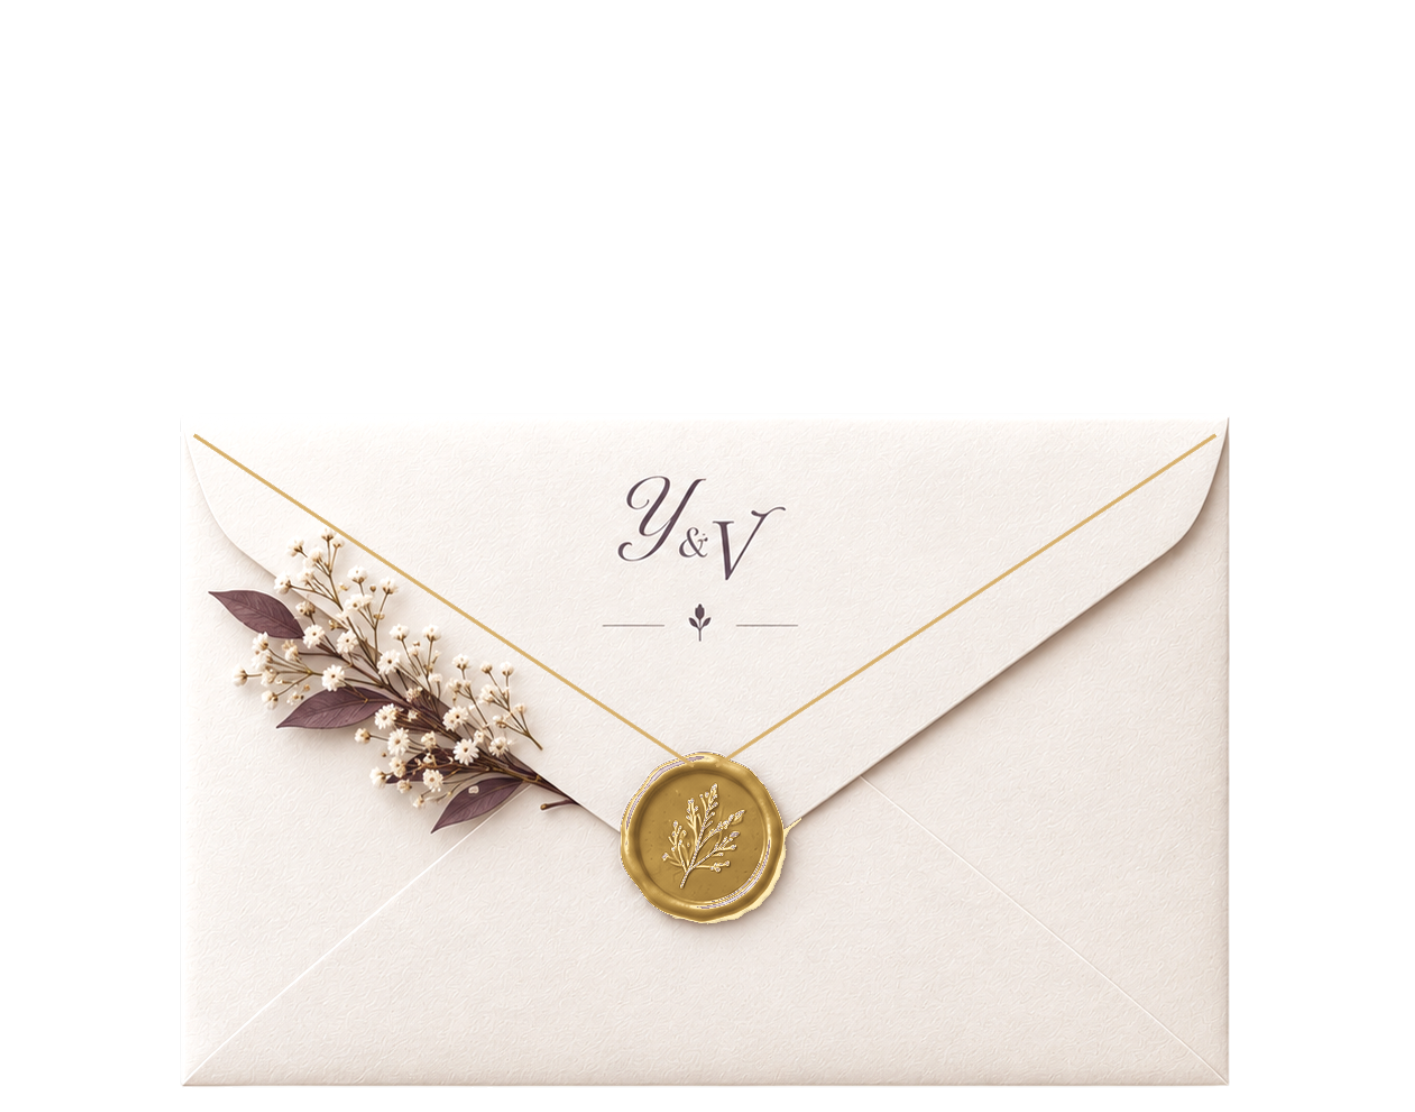
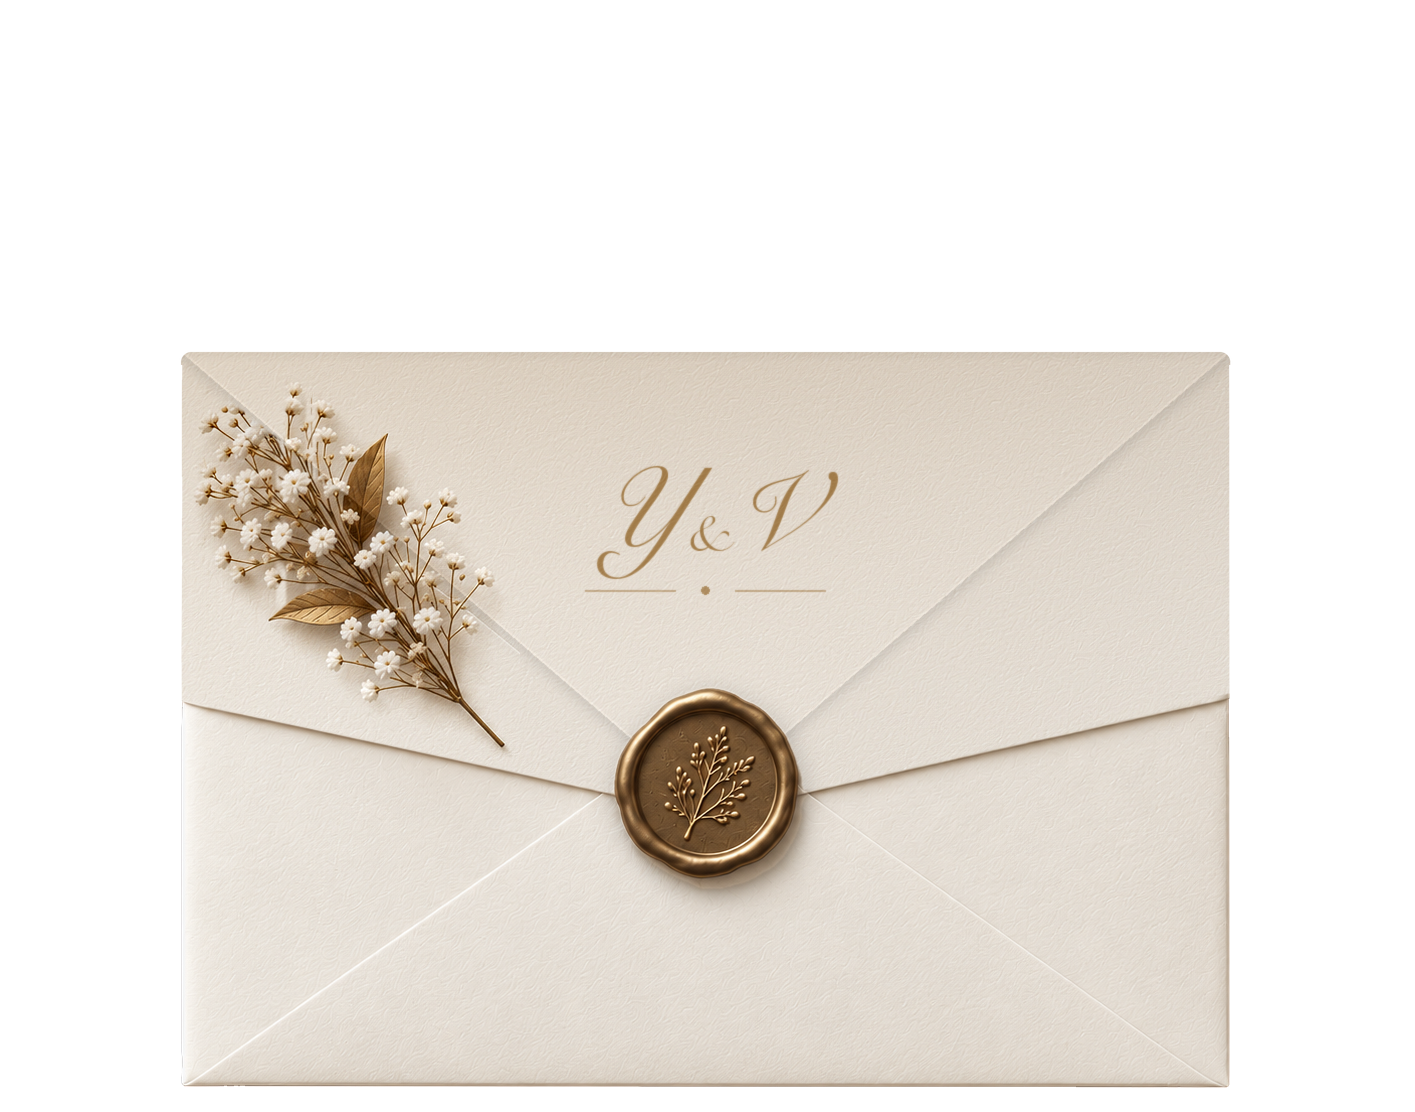
v22

diff --git a/index.html b/index.html
@@ -19,7 +19,7 @@
     content="https://images.unsplash.com/photo-1519741497674-611481863552?auto=format&fit=crop&w=1200&q=80" />
 
   <!-- Preload Envelope Assets for Instant Interaction -->
-  <link rel="preload" as="image" href="assets/images/envelope/envelope%20closed.png" />
+  <link rel="preload" as="image" href="assets/images/envelope/envelope%20closed.png?v=2" />
   <link rel="preload" as="image" href="assets/images/envelope/envelope%20open.png" />
 
   <!-- Google Fonts: Marcellus + EB Garamond + Jost -->
@@ -51,7 +51,7 @@
       <p class="intro-pretitle">You Are Cordially Invited</p>
 
       <div class="envelope-container" id="envelopeContainer">
-        <img src="assets/images/envelope/envelope%20closed.png" alt="Sealed wedding invitation envelope"
+        <img src="assets/images/envelope/envelope%20closed.png?v=2" alt="Sealed wedding invitation envelope"
           class="envelope-img envelope-closed" id="envelopeClosed" />
         <img src="assets/images/envelope/envelope%20open.png" alt="Opened wedding invitation"
           class="envelope-img envelope-open" id="envelopeOpen" />

diff --git a/scratch/make_closed_envelope.py b/scratch/make_closed_envelope.py
@@ -1,0 +1,237 @@
+"""Build a closed envelope from the open envelope photo so both match.
+
+Keeps the open image's bottom pocket, wax seal and sprig at identical pixel
+positions; rebuilds the side panels and a closed top flap from the same paper.
+usage: python3 make_closed.py <open.png> <out.png> [preview.jpg]
+"""
+import sys
+import numpy as np
+from PIL import Image, ImageDraw, ImageFilter, ImageFont
+
+SRC, OUT = sys.argv[1], sys.argv[2]
+PREVIEW = sys.argv[3] if len(sys.argv) > 3 else None
+rng = np.random.default_rng(7)
+
+im = Image.open(SRC).convert("RGBA")
+W, H = im.size
+A = np.asarray(im).astype(np.float32)
+RGB, ALPHA = A[:, :, :3], A[:, :, 3]
+LUM = RGB.mean(2)
+yy, xx = np.mgrid[0:H, 0:W].astype(np.float32)
+
+# ── geometry (measured on the open image) ──────────────────────────────
+X0, X1, TOP, BOT = 181, 1230, 352, 1087
+POCKET = [(181, 703), (705, 815), (1229, 696)]       # bottom flap V edge
+APEX = (705, 802)                                     # top flap tip, under seal
+
+
+def vline(pts):
+    (ax, ay), (bx, by), (cx, cy) = pts
+    return np.where(xx <= bx, ay + (by - ay) * (xx - ax) / (bx - ax),
+                    by + (cy - by) * (xx - bx) / (cx - bx))
+
+
+pocket_y = vline(POCKET)
+flap_y = vline([(X0, TOP), APEX, (X1 - 1, TOP)])
+
+# ── seal mask (bronze wax: saturated or dark) ─────────────────────────
+mx, mn = RGB.max(2), RGB.min(2)
+sat = (mx - mn) / np.maximum(mx, 1)
+near = (xx - 705) ** 2 + (yy - 785) ** 2 < 112 ** 2
+seal = near & ((sat > 0.24) | (LUM < 150))
+sm = Image.fromarray((seal * 255).astype(np.uint8))
+sm = sm.filter(ImageFilter.MaxFilter(7)).filter(ImageFilter.MinFilter(7))   # close
+sm = sm.filter(ImageFilter.MinFilter(3)).filter(ImageFilter.MaxFilter(3))   # drop specks
+sm = sm.filter(ImageFilter.GaussianBlur(3)).point(lambda v: 255 if v > 128 else 0)
+# fill holes: flood from outside
+filled = sm.copy()
+ImageDraw.floodfill(filled, (0, 0), 128)
+sm = Image.fromarray(np.where(np.asarray(filled) == 128, 0, 255).astype(np.uint8))
+seal_a = np.asarray(sm.filter(ImageFilter.GaussianBlur(1.0))).astype(np.float32) / 255
+ys, xs = np.nonzero(seal_a > 0.5)
+SEAL_C = (xs.mean(), ys.mean())
+print("seal centre", [round(v) for v in SEAL_C], "bbox", xs.min(), xs.max(), ys.min(), ys.max())
+
+# ── clean paper sample mask (for lighting fit) ─────────────────────────
+body = (xx > X0 + 6) & (xx < X1 - 7) & (yy < BOT - 6)
+clean = body & (yy > pocket_y + 6) & ~((xx - 705) ** 2 + (yy - 785) ** 2 < 150 ** 2)
+clean |= (xx > 186) & (xx < 268) & (yy > 368) & (yy < 690)            # left side panel
+clean |= (xx > 1150) & (xx < 1222) & (yy > 450) & (yy < 680)          # right side panel
+clean &= LUM > 185
+
+# lighting: quadratic surface per channel
+def basis(x, y):
+    x = (x - W / 2) / W
+    y = (y - H / 2) / H
+    return np.stack([np.ones_like(x), x, y, x * x, x * y, y * y], -1)
+
+blur = np.asarray(im.convert("RGB").filter(ImageFilter.GaussianBlur(5))).astype(np.float32)
+sel = clean[::3, ::3]
+Bm = basis(xx[::3, ::3][sel], yy[::3, ::3][sel])
+light = np.zeros_like(RGB)
+Bfull = basis(xx, yy)
+for c in range(3):
+    coef, *_ = np.linalg.lstsq(Bm, blur[::3, ::3, c][sel], rcond=None)
+    light[:, :, c] = Bfull @ coef
+
+# ── paper texture: quilt residual blocks from clean regions ────────────
+resid = RGB - np.asarray(im.convert("RGB").filter(ImageFilter.GaussianBlur(4))).astype(np.float32)
+resid = np.clip(resid, -14, 14)
+sources = [(480, 965, 940, 1075), (205, 775, 420, 870), (990, 775, 1200, 860)]
+B, STEP = 48, 32
+win1 = np.sin(np.linspace(0, np.pi, B)) ** 2
+win = np.outer(win1, win1)[:, :, None]
+tex = np.zeros_like(RGB)
+wsum = np.zeros((H, W, 1), np.float32)
+for by in range(TOP - B, BOT + B, STEP):
+    for bx in range(X0 - B, X1 + B, STEP):
+        sx0, sy0, sx1, sy1 = sources[rng.integers(len(sources))]
+        px = rng.integers(sx0, sx1 - B)
+        py = rng.integers(sy0, sy1 - B)
+        patch = resid[py:py + B, px:px + B]
+        ty0, tx0 = max(by, 0), max(bx, 0)
+        ty1, tx1 = min(by + B, H), min(bx + B, W)
+        if ty1 <= ty0 or tx1 <= tx0:
+            continue
+        p = patch[ty0 - by:ty1 - by, tx0 - bx:tx1 - bx]
+        w = win[ty0 - by:ty1 - by, tx0 - bx:tx1 - bx]
+        tex[ty0:ty1, tx0:tx1] += p * w
+        wsum[ty0:ty1, tx0:tx1] += w * w
+tex /= np.sqrt(np.maximum(wsum, 1e-4))
+
+paper = light + tex
+
+# ── composite ──────────────────────────────────────────────────────────
+out = paper.copy()
+
+# 1. bottom pocket straight from the photo (soft 2px seam)
+keep = np.clip((yy - (pocket_y - 4)) / 2.0, 0, 1)[:, :, None]
+out = out * (1 - keep) + RGB * keep
+
+# 2. top flap: soft shadow onto what's below, then the flap itself
+flap = (yy < flap_y).astype(np.float32)
+fm = Image.fromarray((flap * 255).astype(np.uint8))
+shadow = np.asarray(fm.transform(fm.size, Image.AFFINE, (1, 0, 0, 0, 1, -5))
+                    .filter(ImageFilter.GaussianBlur(7))).astype(np.float32) / 255
+shadow = np.clip(shadow - flap, 0, 1)
+out *= (1 - 0.13 * shadow)[:, :, None]
+
+flap_aa = np.asarray(fm.filter(ImageFilter.GaussianBlur(0.7))).astype(np.float32)[:, :, None] / 255
+# flap paper: same sheet, a touch brighter (faces the light), with a fine
+# highlight along the folded edge like the pocket edges in the photo
+d_edge = flap_y - yy                                   # px above the edge (vertical)
+edge_hi = np.exp(-((d_edge - 1.5) ** 2) / 1.5)[:, :, None] * 10
+top_fold = np.clip(1 - (yy - TOP) / 10, 0, 1)[:, :, None] * -8   # crease shading at the top fold
+flap_px = paper + 3 + edge_hi + top_fold
+out = out * (1 - flap_aa) + flap_px * flap_aa
+
+# 3. monogram on the flap, in the card's gold
+GOLD = np.array([146, 112, 66], np.float32)
+font = ImageFont.truetype("/System/Library/Fonts/Supplemental/SnellRoundhand.ttc", 112, index=0)
+amp = ImageFont.truetype("/System/Library/Fonts/Supplemental/SnellRoundhand.ttc", 64, index=0)
+tm = Image.new("L", (W, H), 0)
+td = ImageDraw.Draw(tm)
+cx, cy = 705, 512
+td.text((cx - 62, cy), "Y", font=font, fill=255, anchor="mm")
+td.text((cx + 2, cy + 18), "&", font=amp, fill=255, anchor="mm")
+td.text((cx + 66, cy + 4), "V", font=font, fill=255, anchor="mm")
+for sx0, sx1 in ((cx - 120, cx - 30), (cx + 30, cx + 120)):
+    td.line([(sx0, cy + 78), (sx1, cy + 78)], fill=150, width=2)
+td.ellipse([cx - 4, cy + 74, cx + 4, cy + 82], fill=220)
+t = np.asarray(tm.filter(ImageFilter.GaussianBlur(0.6))).astype(np.float32)[:, :, None] / 255
+t *= flap_aa
+deboss = np.asarray(tm.transform(tm.size, Image.AFFINE, (1, 0, -1, 0, 1, -1))
+                    .filter(ImageFilter.GaussianBlur(1))).astype(np.float32)[:, :, None] / 255
+out = out + deboss * flap_aa * 6                       # faint pressed highlight
+foil = GOLD + (light - light.mean()) * 0.6 + tex * 0.5
+out = out * (1 - t * 0.92) + foil * (t * 0.92)
+
+# 4. sprig: transfer its difference from the local background
+SX0, SY0, SX1, SY1 = 190, 362, 520, 760
+src = RGB[SY0:SY1, SX0:SX1]
+sub_sat = sat[SY0:SY1, SX0:SX1]
+sub_l = LUM[SY0:SY1, SX0:SX1]
+
+
+def gblur(a, sigma):
+    r = int(3 * sigma)
+    k = np.exp(-np.arange(-r, r + 1) ** 2 / (2 * sigma ** 2))
+    k /= k.sum()
+    a = np.pad(a, r, mode="edge")
+    a = np.apply_along_axis(lambda v: np.convolve(v, k, "valid"), 0, a)
+    return np.apply_along_axis(lambda v: np.convolve(v, k, "valid"), 1, a)
+
+
+def masked_blur(img, m, sigma, fallback):
+    """Blur only the pixels where m is set (normalised convolution);
+    where too little of the neighbourhood is set, use the fallback."""
+    den = gblur(m, sigma)
+    num = np.dstack([gblur(img[:, :, c] * m, sigma) for c in range(3)])
+    est = num / np.maximum(den, 1e-3)[:, :, None]
+    trust = np.clip((den - 0.03) / 0.07, 0, 1)[:, :, None]
+    return est * trust + fallback * (1 - trust)
+
+
+# background behind the sprig: paper/card only, found iteratively
+light_sub = light[SY0:SY1, SX0:SX1]
+bgm = ((sub_sat < 0.12) & (sub_l > 200)).astype(np.float32)
+for _ in range(3):
+    bg = masked_blur(src, bgm, 14, light_sub)
+    d = np.abs(src - bg).max(2)
+    bgm = (d < 9).astype(np.float32)
+diff = src - bg
+mag = np.abs(diff).max(2)
+sx, sy = xx[SY0:SY1, SX0:SX1], yy[SY0:SY1, SX0:SX1]
+dl = diff.mean(2)
+
+w_norm = np.clip((mag - 4) / 8, 0, 1)
+w_norm = np.asarray(Image.fromarray((w_norm * 255).astype(np.uint8)).filter(ImageFilter.MaxFilter(3))).astype(np.float32) / 255
+# on the card's edge (x≈280) and gold frame line (x≈310) keep only petals,
+# stems and leaves, so the lines themselves don't come along
+flower_w = np.clip((dl - 6) / 8, 0, 1)
+stem_w = np.clip((sub_sat - 0.25) / 0.1, 0, 1) * np.clip((-dl - 12) / 10, 0, 1)
+stem_w[sy < 398] = 0                       # bare frame line above the top blossoms
+w_strict = np.maximum(flower_w, stem_w)
+
+
+def ramp(x, a, b, r=3.0):
+    return np.clip(np.minimum(x - (a - r), (b + r) - x) / r, 0, 1)
+
+
+zone = np.maximum(ramp(sx, 277, 284), ramp(sx, 307, 314)) * np.clip((612 - sy) / 10, 0, 1)
+wgt = w_norm * (1 - zone) + w_strict * zone
+# the gold liner peeking out left of the card: fade it (and what's on it) out
+liner_d = (360 + (sx - 183) * 0.79 + 6) - sy
+wgt *= 1 - np.clip(liner_d / 4, 0, 1) * np.clip((286 - sx) / 3, 0, 1)
+wgt[(sx >= 302) & (sx <= 319) & (sy < 392)] = 0     # frame line above the sprig
+wgt = gblur(wgt, 0.8)[:, :, None]
+above = np.clip(((pocket_y - 4) - yy)[SY0:SY1, SX0:SX1] / 2.0, 0, 1)[:, :, None]
+out[SY0:SY1, SX0:SX1] += diff * wgt * above
+
+# 5. seal on top, with its own soft drop shadow
+sh = Image.fromarray((seal_a * 255).astype(np.uint8))
+sh = np.asarray(sh.transform(sh.size, Image.AFFINE, (1, 0, -2, 0, 1, -6))
+                .filter(ImageFilter.GaussianBlur(12))).astype(np.float32) / 255
+out *= (1 - 0.2 * np.clip(sh - seal_a, 0, 1))[:, :, None]
+out = out * (1 - seal_a[:, :, None]) + RGB * seal_a[:, :, None]
+
+# ── alpha: rounded-top body, sides/bottom from the photo ───────────────
+S4 = 4
+mask = Image.new("L", (W * S4, H * S4), 0)
+ImageDraw.Draw(mask).rounded_rectangle([X0 * S4, TOP * S4, X1 * S4, (BOT + 20) * S4], radius=10 * S4, fill=255)
+mask = np.asarray(mask.resize((W, H), Image.LANCZOS)).astype(np.float32)
+alpha = np.where(yy > 420, ALPHA, np.minimum(mask, np.where(yy > TOP + 12, ALPHA, 255)))
+alpha = np.minimum(alpha, np.where(yy < BOT - 30, 255, ALPHA))
+alpha = np.minimum(alpha, mask + (yy > 420) * 255)
+
+res = np.dstack([np.clip(out, 0, 255), alpha]).astype(np.uint8)
+res[alpha == 0, :3] = 0
+Image.fromarray(res, "RGBA").save(OUT, optimize=True)
+print("wrote", OUT)
+
+if PREVIEW:
+    o = Image.open(OUT)
+    sheet = Image.new("RGBA", (W * 2, H), (250, 246, 242, 255))
+    sheet.alpha_composite(o, (0, 0))
+    sheet.alpha_composite(im, (W, 0))
+    sheet.convert("RGB").resize((W, H // 2)).save(PREVIEW, quality=88)
